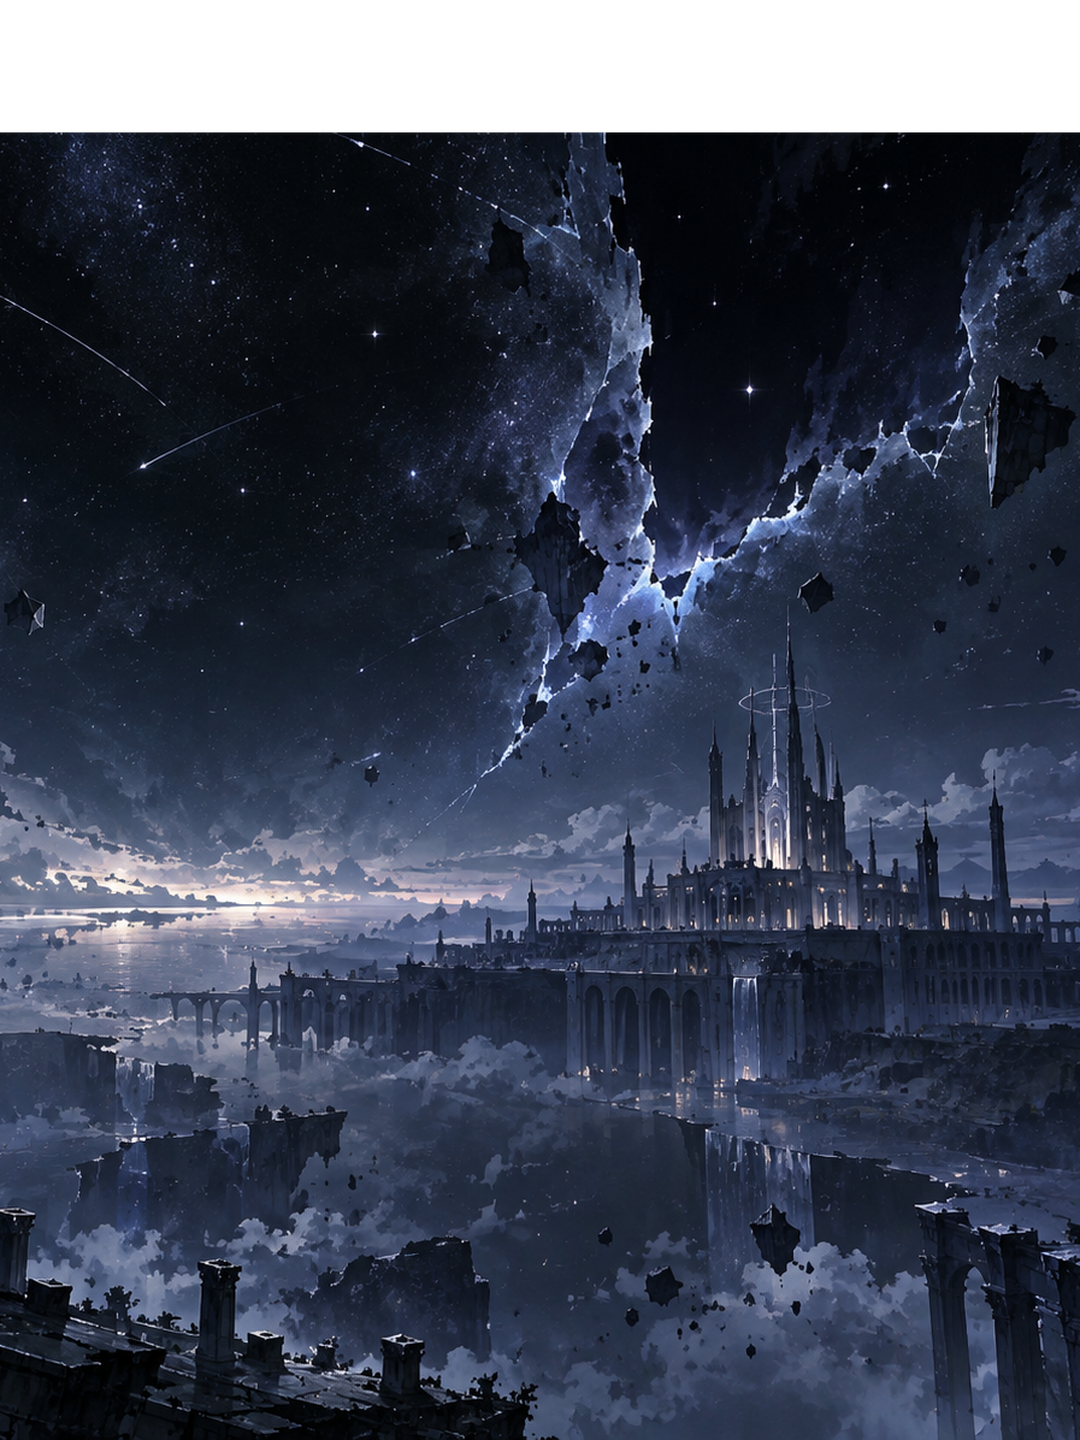
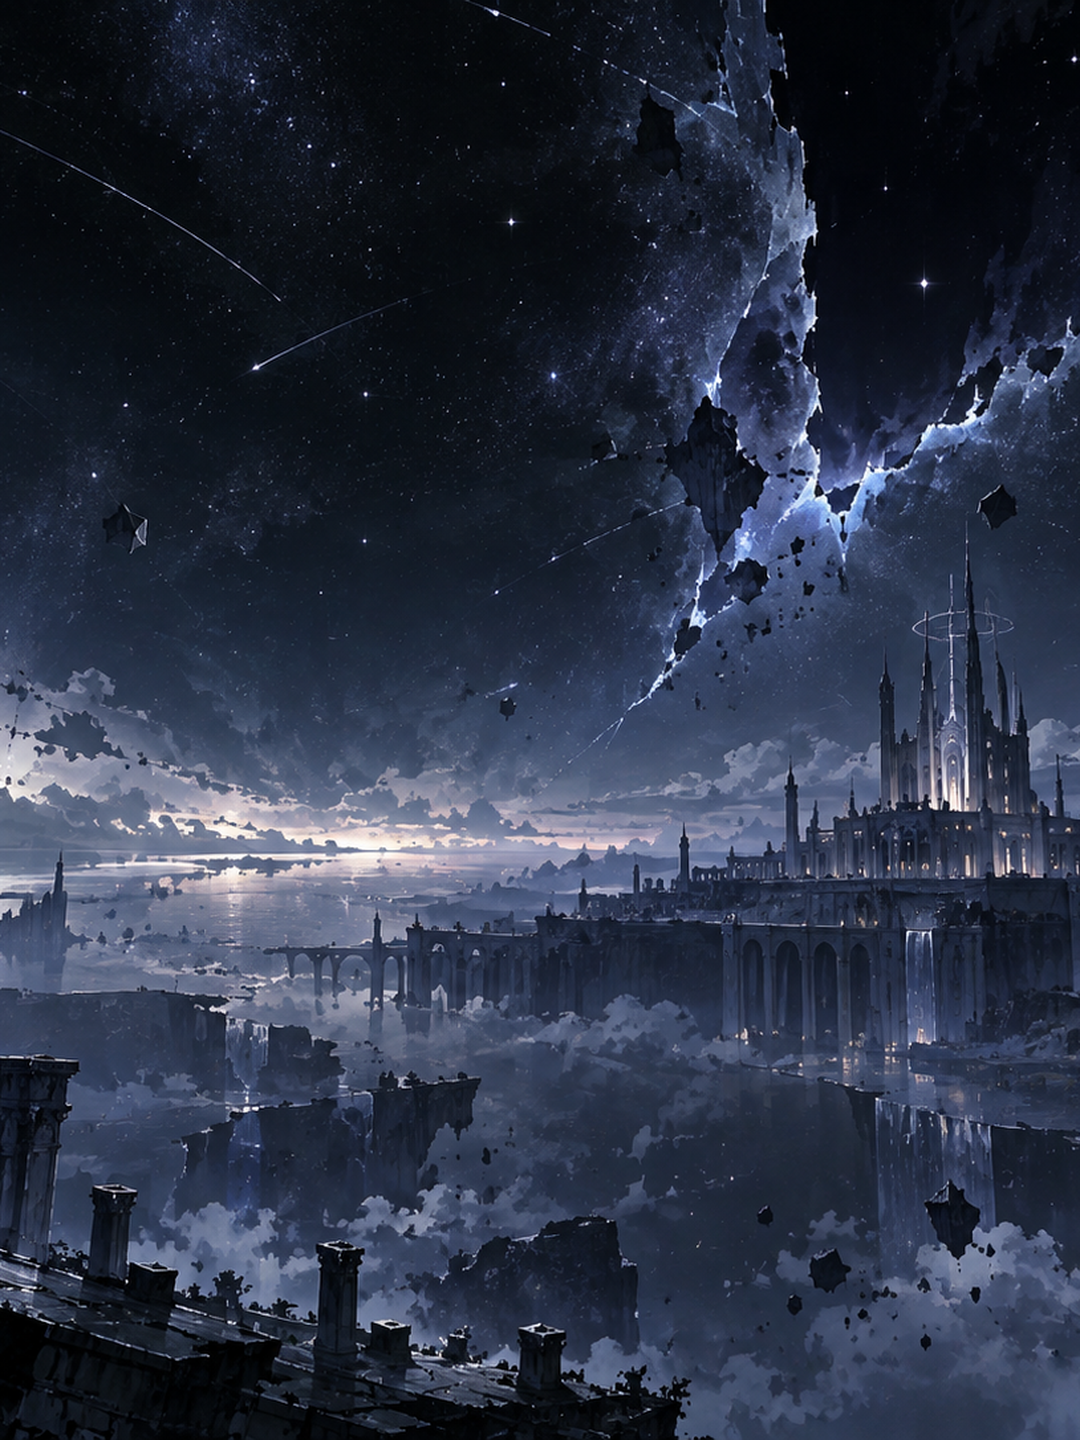
Add files via upload

diff --git a/style.css b/style.css
@@ -414,3 +414,12 @@ display:flex;flex-direction:column;align-items:center;justify-content:center;gap
     max-width:82%;
   }
 }
+
+
+/* v0.3.9 mobile image fix */
+@media(max-width:640px){
+  .visual.has-image{
+    background-position:center center;
+    min-height:240px;
+  }
+}

diff --git a/README.md b/README.md
@@ -183,3 +183,15 @@ v0.3はv0.2系と別のlocalStorageキーを使用。
 - `RECORD 040 / LAST DAYS` のおやつシーン画像を、手の自然さを修正した新版イラストに差し替え
 - `last-days-photo.png` を更新
 - `last-days-photo-mobile.png` も新版から再切り出し
+
+
+## v0.3.9 Mobile Black-Bar Fix
+- スマホ用画像の切り出し処理を修正
+- `royal-garden-photo-mobile.png`
+- `world-decay-photo-mobile.png`
+- `many-worlds-photo-mobile.png`
+- `last-days-photo-mobile.png`
+- `world-0001-photo-mobile.png`
+  をすべて安全な縦切りで再生成
+- スマホ表示時の画像エリアも微調整
+- 画像上部が黒く見える不具合を修正
